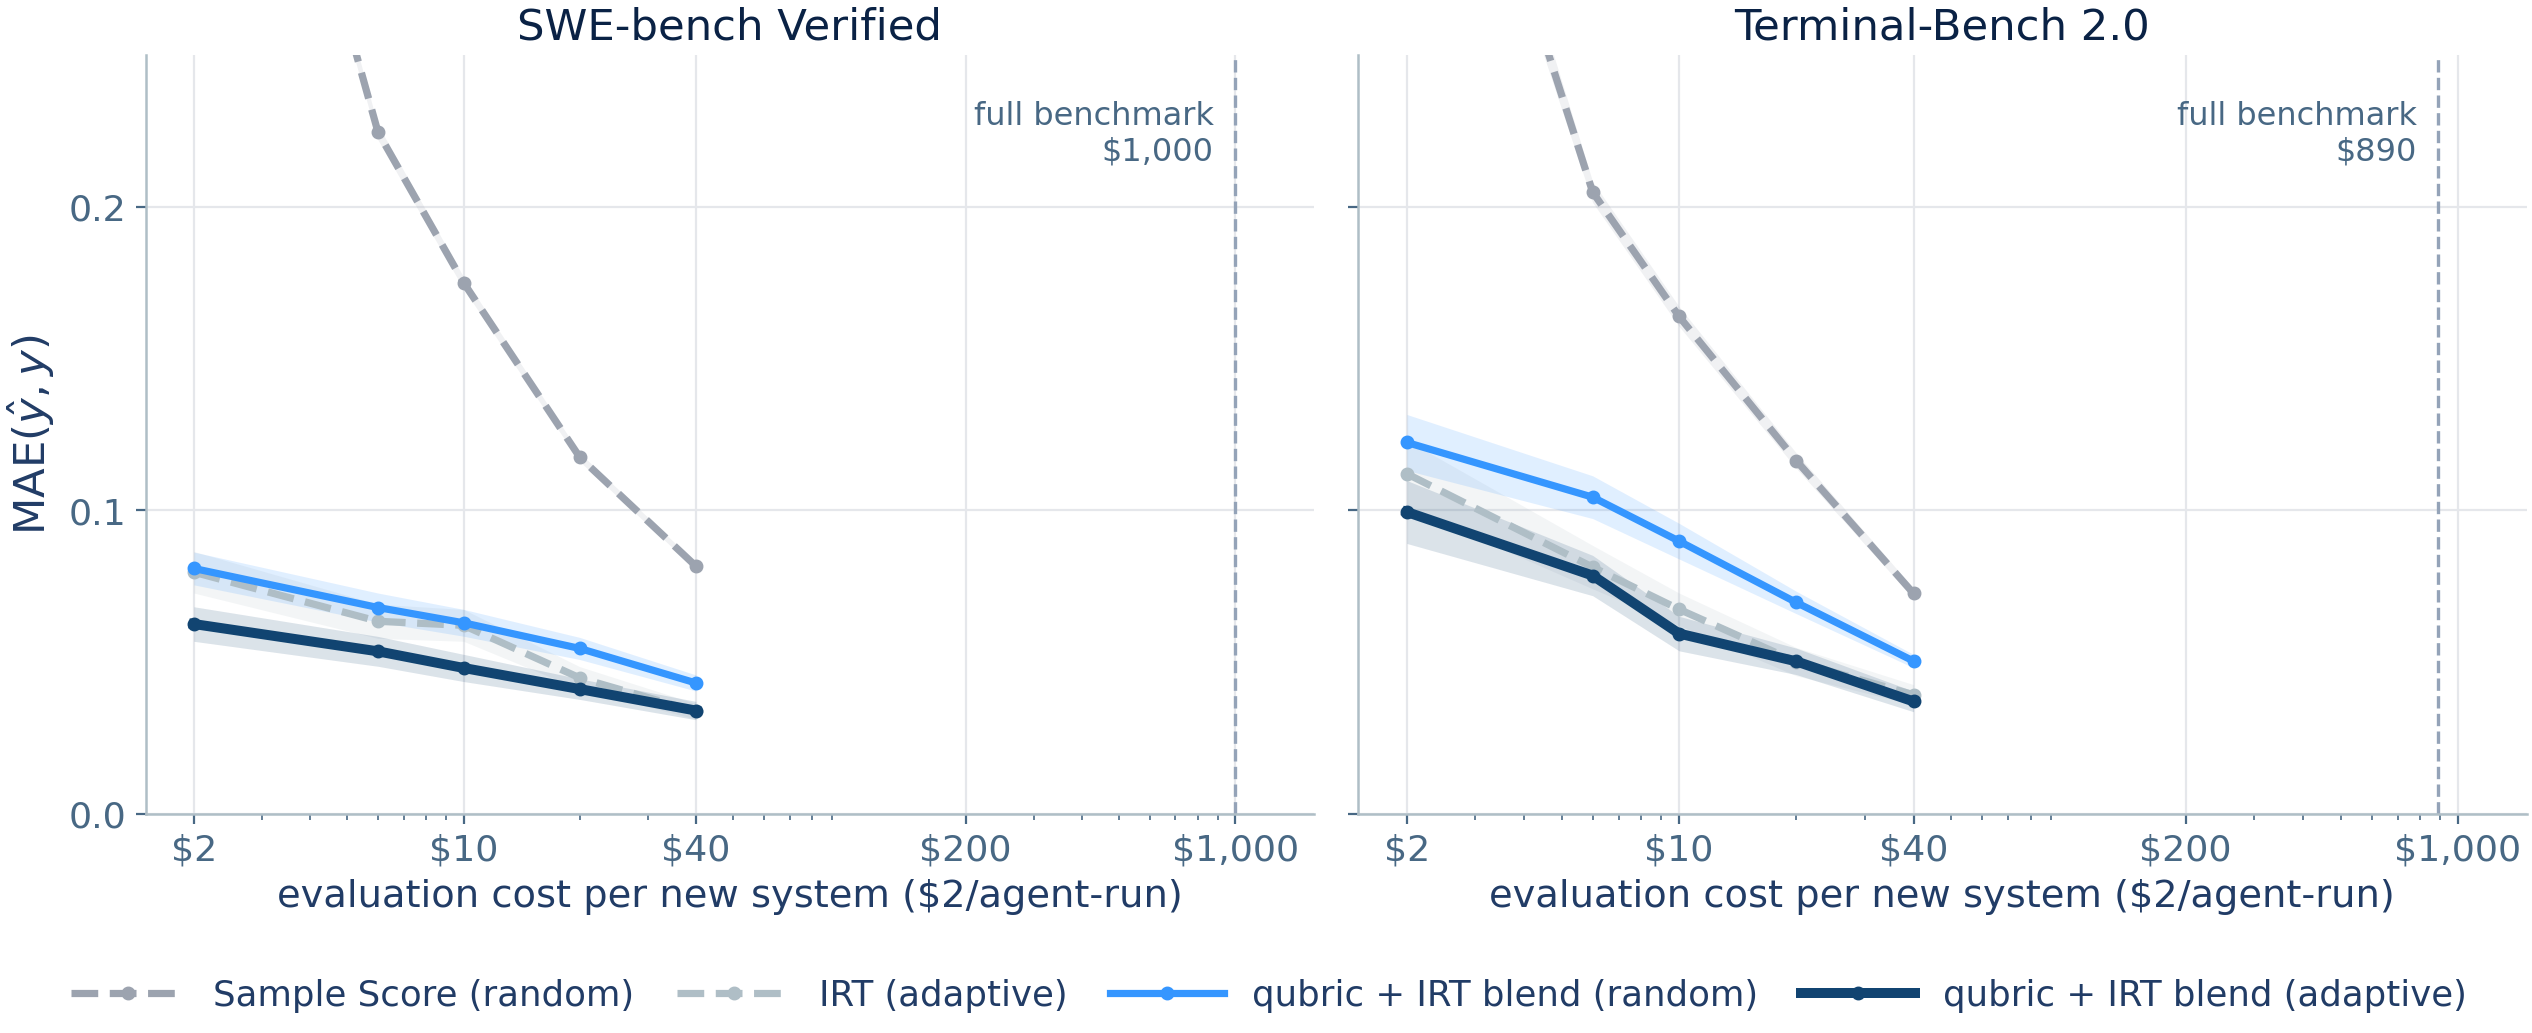
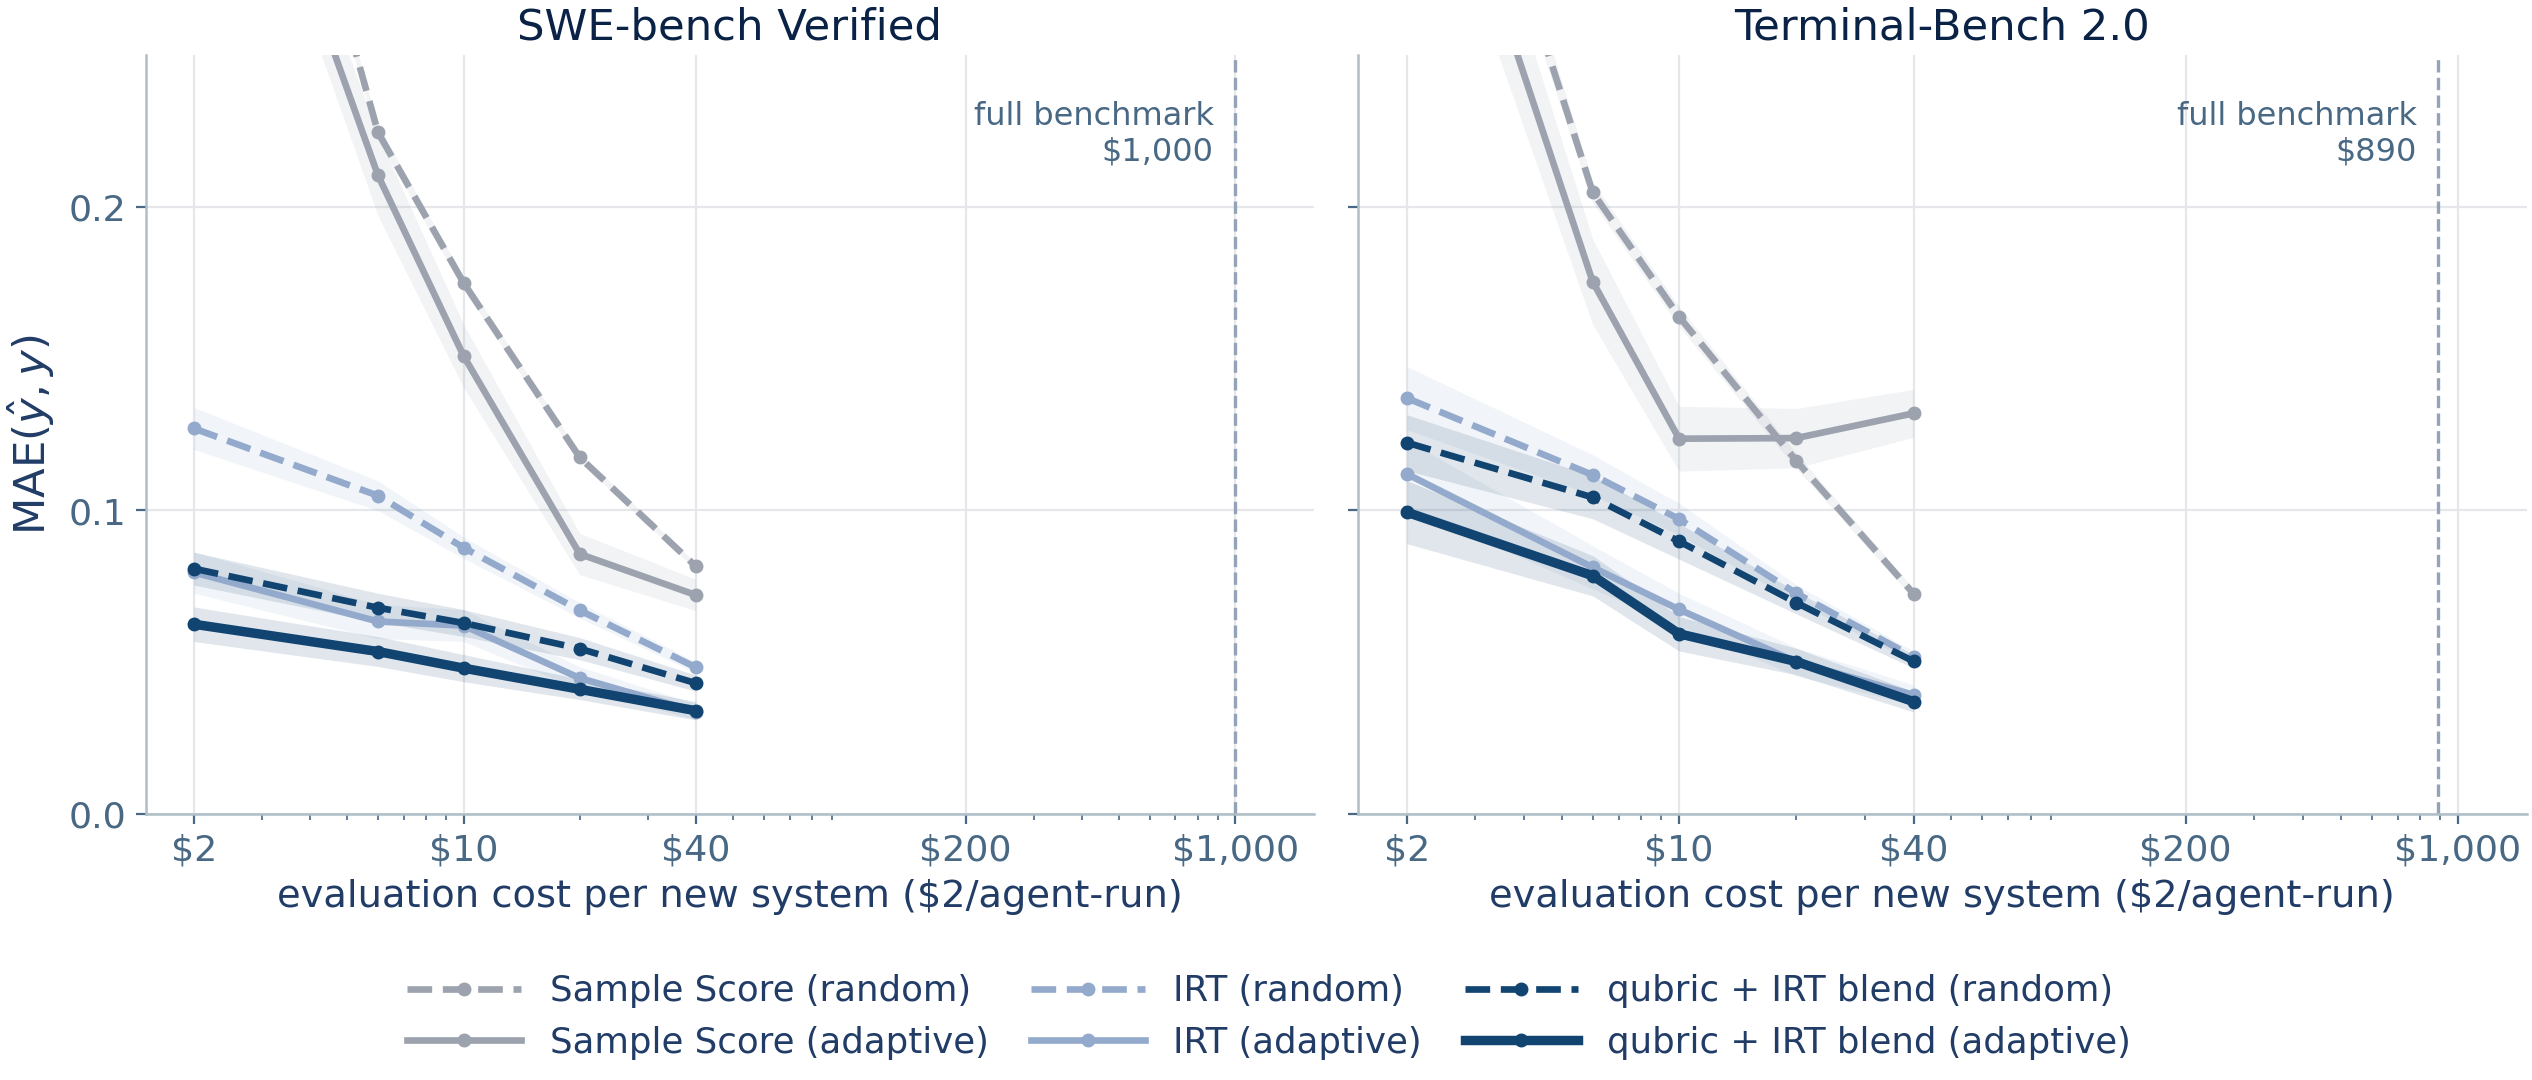
fig_cost: all three methods in both probe regimes (dashed=random, solid=adaptive)
Claude-Session: https://claude.ai/code/session_01RGusFFXzoPTkSKgzzDLjNv

diff --git a/scripts/fig_cost.py b/scripts/fig_cost.py
@@ -50,20 +50,25 @@ def main():
         cost = np.array(MS) * COST_RUN
         full_cost = full_runs * COST_RUN
 
+        # in this figure line style encodes the probe regime:
+        # dashed = random probes, solid = adaptive probes
         curves = [
-            (rand, 'sample', 'Sample Score (random)', 'baseline_gray', {}),
-            (adap, 'irt', 'IRT (adaptive)', 'baseline_pale', {}),
-            (rand, 'blend', 'qubric + IRT blend (random)', 'focus', {}),
-            (adap, 'blend', 'qubric + IRT blend (adaptive)', 'anchor', {}),
+            (rand, 'sample', 'Sample Score (random)', 'baseline_gray', '--'),
+            (adap, 'sample', 'Sample Score (adaptive)', 'baseline_gray', '-'),
+            (rand, 'irt', 'IRT (random)', 'comparator', '--'),
+            (adap, 'irt', 'IRT (adaptive)', 'comparator', '-'),
+            (rand, 'blend', 'qubric + IRT blend (random)', 'anchor', '--'),
+            (adap, 'blend', 'qubric + IRT blend (adaptive)', 'anchor', '-'),
         ]
-        for src, key, label, role, kw in curves:
+        for src, key, label, role, ls in curves:
             st = hv_style.ROLES[role]
+            lw = 3.4 if role == 'anchor' and ls == '-' else 2.4
             mae, sem = series(src, key)
-            ax.plot(cost, mae, color=st['color'], ls=st['ls'],
-                    lw=st.get('lw', 2.6), marker='o', ms=4, label=label,
+            ax.plot(cost, mae, color=st['color'], ls=ls, lw=lw,
+                    marker='o', ms=4, label=label,
                     zorder=4 if role == 'anchor' else 3)
             ax.fill_between(cost, mae - sem, mae + sem, color=st['color'],
-                            alpha=.15, lw=0, zorder=2)
+                            alpha=.13, lw=0, zorder=2)
         ax.axvline(full_cost, color=hv_style.REFLINE, ls='--', lw=1.2,
                    zorder=1)
         ax.text(full_cost * .88, .235,
@@ -84,7 +89,7 @@ def main():
     handles, labels_ = axes[0].get_legend_handles_labels()
     fig.legend(handles, labels_, fontsize=SZ['legend'] - 1,
                handlelength=3.2, loc='lower center',
-               bbox_to_anchor=(0.5, -0.03), ncol=4, columnspacing=1.2)
+               bbox_to_anchor=(0.5, -0.075), ncol=3, columnspacing=1.2)
     fig.tight_layout(rect=(0, 0.06, 1, 1))
     fig.savefig('figures/fig_cost.png', dpi=200, bbox_inches='tight',
                 pad_inches=0.03)
